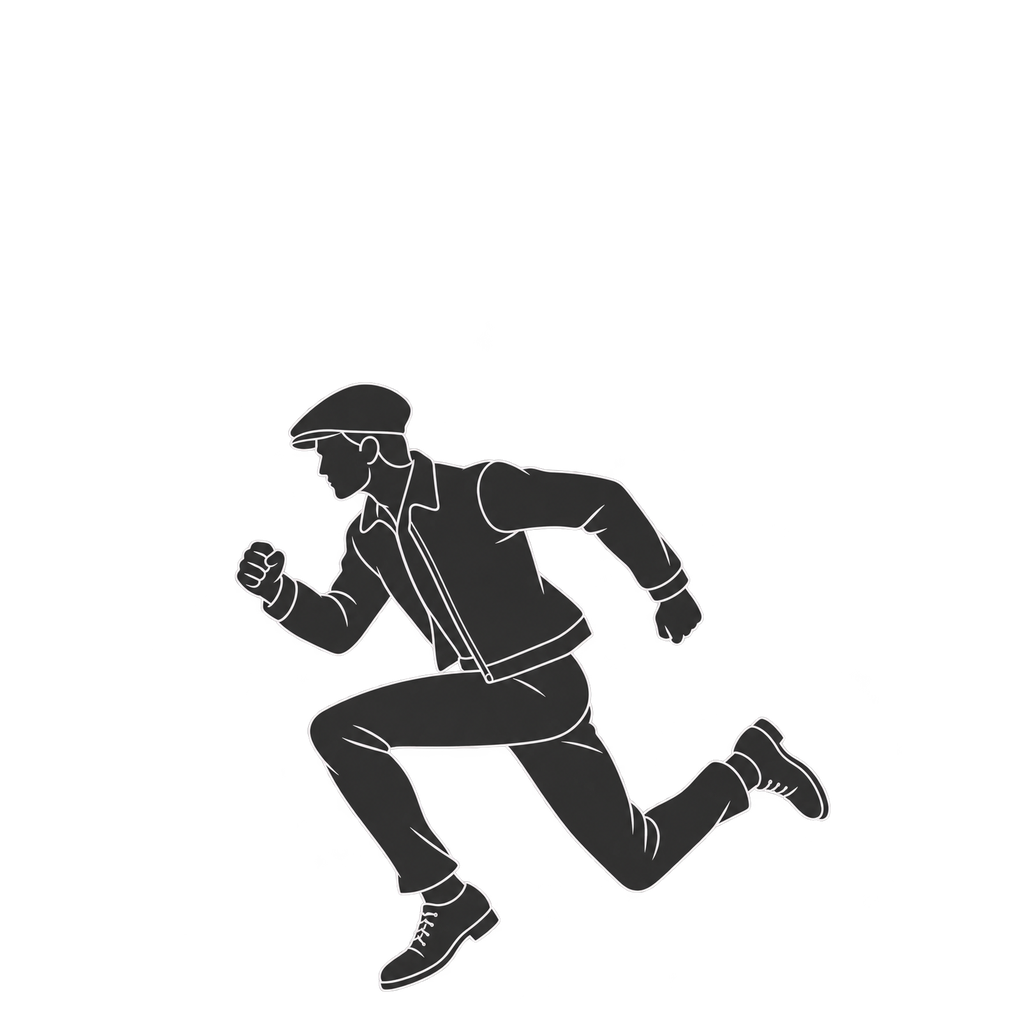
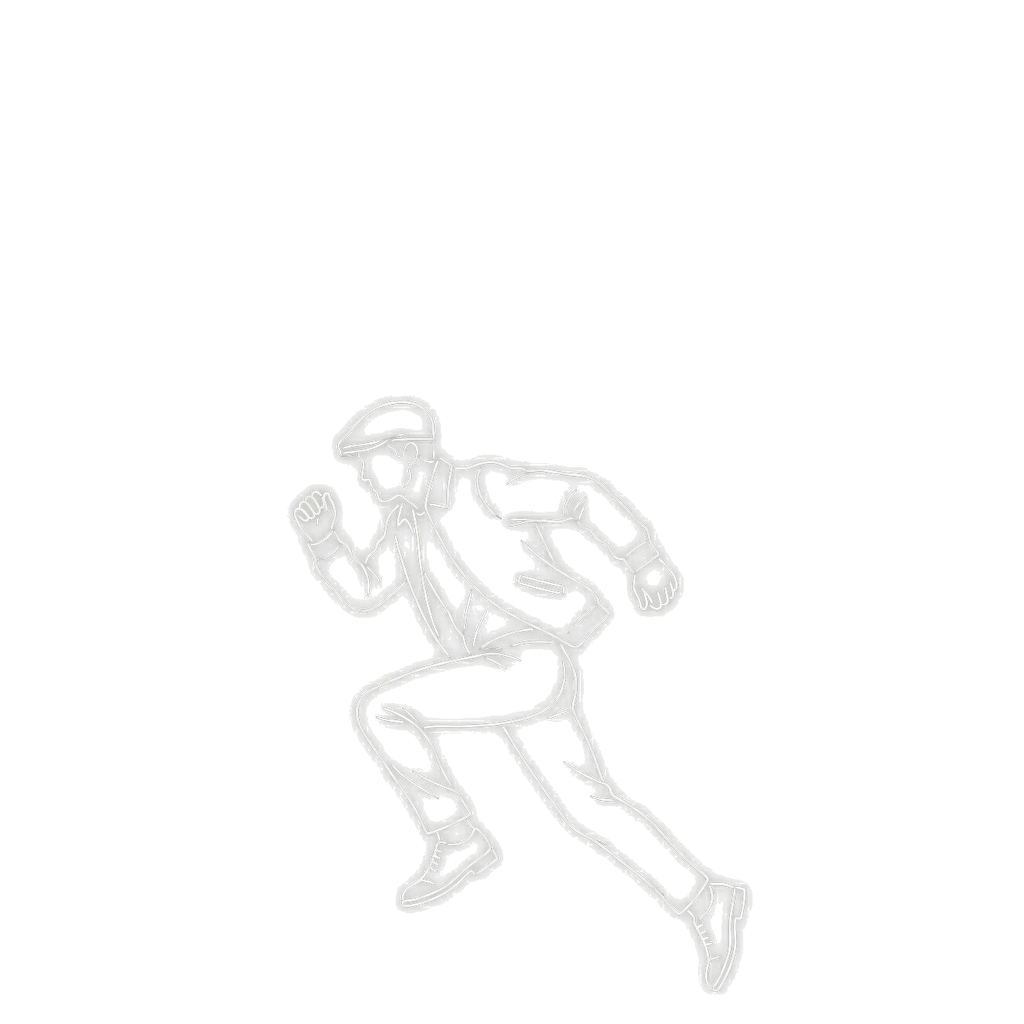
报纸落到脸上高度，尼尔冲刺换描线重画
- 勒索街角报纸：中心 y 598->620，半高 58->48，上沿盖脸下沿落胸；邮箱相见 peek/read 同步下移
- 尼尔冲刺旧灰面违反 2026-10-11 描线标准，以标准基础图重画线稿腾空帧并接入

Changed region(s): [[0.2188, 0.375, 0.8125, 0.9688]]

diff --git a/tools/theatre/prepare-chase-portraits.py b/tools/theatre/prepare-chase-portraits.py
@@ -8,7 +8,7 @@ from PIL import Image
 ROOT = Path(__file__).resolve().parents[2]
 OUT = ROOT / 'UnityClient/Assets/Resources/Portraits/Chase'
 SOURCES = {
-    '尼尔': '角色库/尼尔/形象/姿势/追逐/冲刺-openai.png',
+    '尼尔': '角色库/尼尔/形象/姿势/追逐/冲刺-线稿.png',
     '取信人': '角色库/路人/形象/追逐/冲刺-openai.png',
 }
 template = (ROOT / 'UnityClient/Assets/Resources/Portraits/Neon/尼尔.png.meta').read_text()

diff --git a/角色库/尼尔/形象/姿势/追逐/README.md b/角色库/尼尔/形象/姿势/追逐/README.md
@@ -1,6 +1,6 @@
 # 勒索追逐冲刺立绘
 
-当前选用 `冲刺-openai.png`，由内置 OpenAI 生图服务生成；完整提示词见 `冲刺-openai-prompt.txt`。旧单帧、双帧文件仅为候选，不接入运行时。
+当前选用 `冲刺-线稿.png`：以尼尔标准基础图为唯一身份参考，用 Gemini Image Web 按腾空冲刺姿势（前膝抬起、后腿回收、双臂反向）重画；提示词见 `冲刺-线稿-prompt.txt`，网页回执见 `冲刺-线稿-manifest.json`。旧 `冲刺-openai.png` 为灰面实心填充，不符合 2026-10-11 描线标准（身体内部黑色负空间、不得大面积灰色填充），已停止接入，仅保留备查。旧单帧、双帧文件仅为候选，不接入运行时。
 
 采用单帧腾空冲刺定姿，参考 [AnimSchool 的跑步关键姿势讲解](https://blog.animschool.edu/2024/04/10/the-key-poses-of-a-run-cycle/) 中的 Push / Peak 阶段：前膝抬起、后腿回收、双臂反向摆动，避免长直腿跨步和两帧跳变。尼尔保留鸭舌帽与短夹克，取信人保持纯黑内部、克制外轮廓。
 
